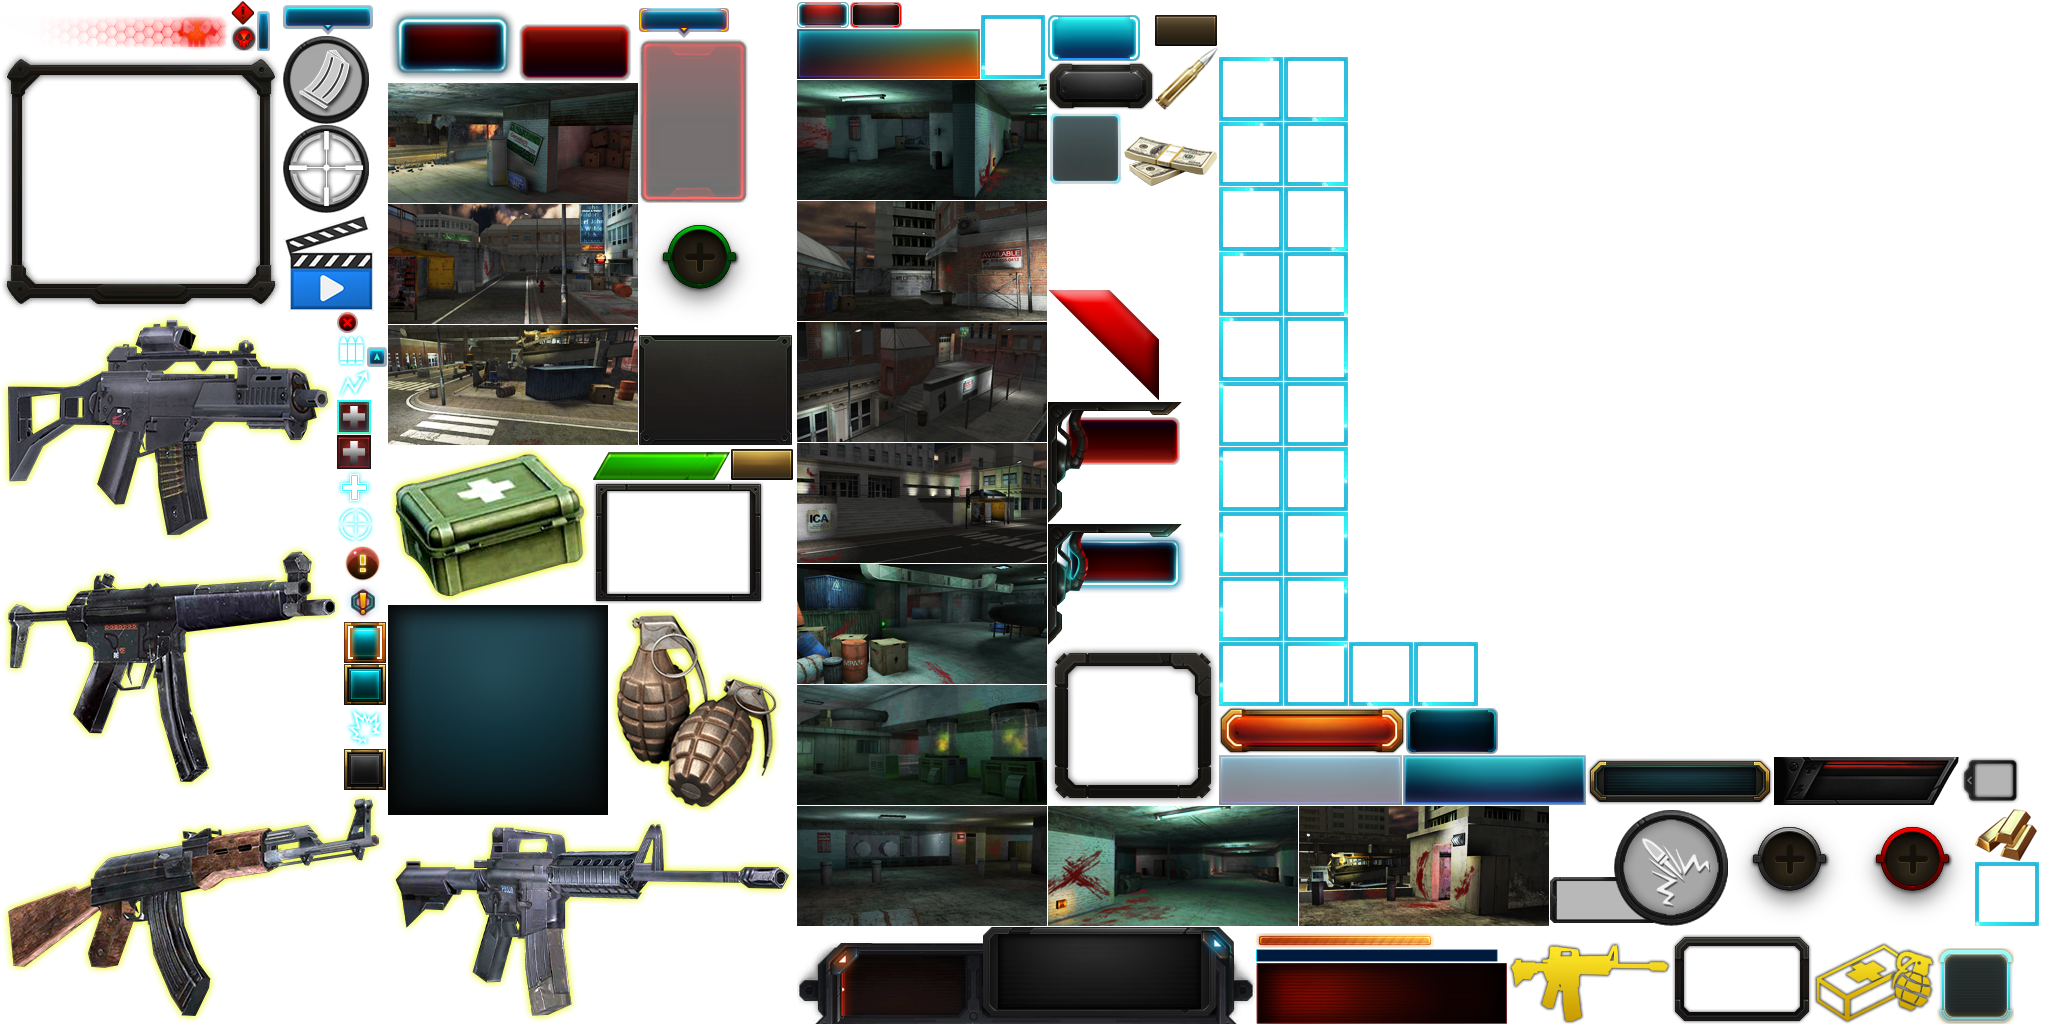
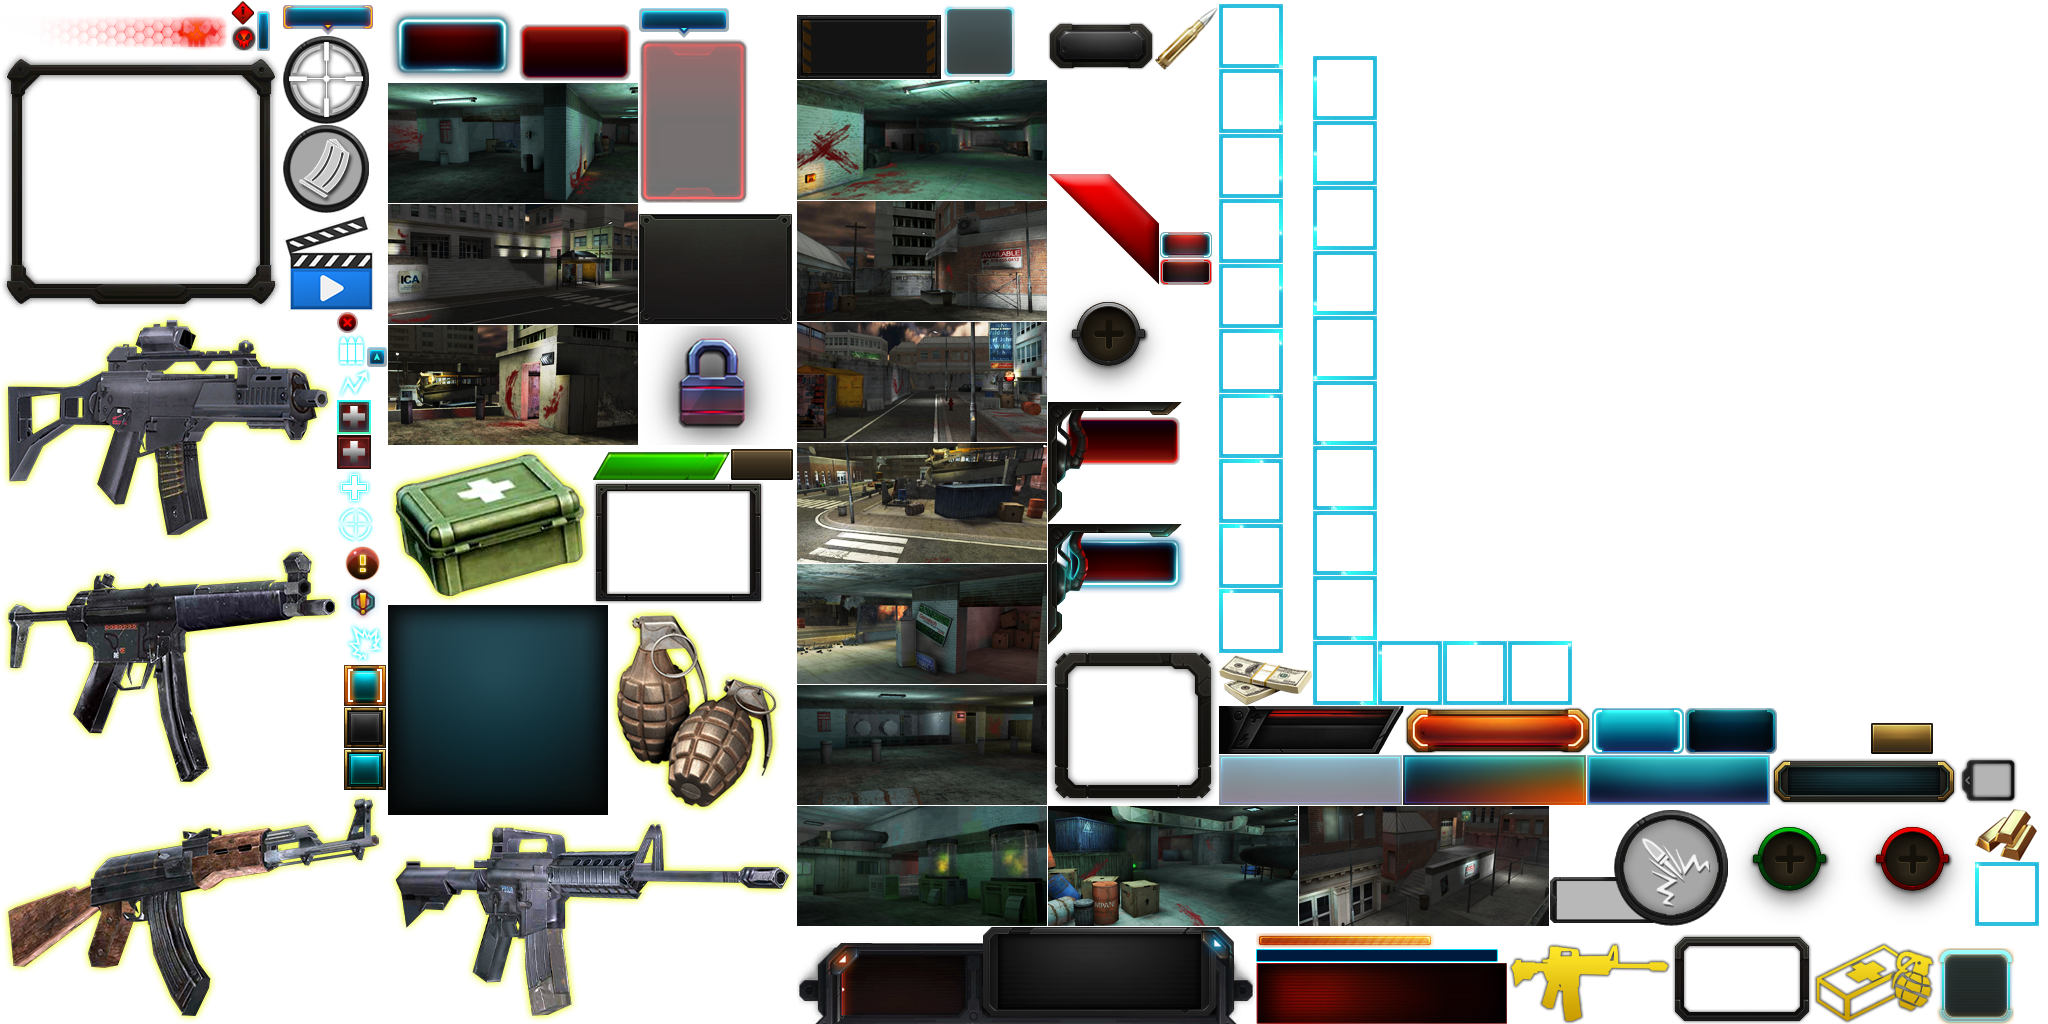
增加了武器锁

Changed region(s): [[0.125, 0.0, 1.0, 0.9062], [0.1562, 0.5938, 0.1875, 0.7812], [0.3125, 0.0, 0.3438, 0.0312]]

diff --git a/Assets/Scripts/FProject/UI/Menu/UIWeaponItem.cs b/Assets/Scripts/FProject/UI/Menu/UIWeaponItem.cs
@@ -7,6 +7,7 @@ public class UIWeaponItem : MonoBehaviour
     public UILabel lbWeapnName;
     public UISprite spWeaonIcon;
     public GameObject makerEquiped;
+    public GameObject makerLocked;
     public UIToggle toggle;
     GDEWeaponData _weapon;
     public GDEWeaponData Weapon
@@ -32,6 +33,7 @@ public class UIWeaponItem : MonoBehaviour
             lbWeapnName.text = Weapon.name;
             spWeaonIcon.spriteName = Weapon.thumb;
             makerEquiped.SetActive(Weapon.isEquipment);
+            makerLocked.SetActive(!Weapon.isowned);
         }
     }
 
